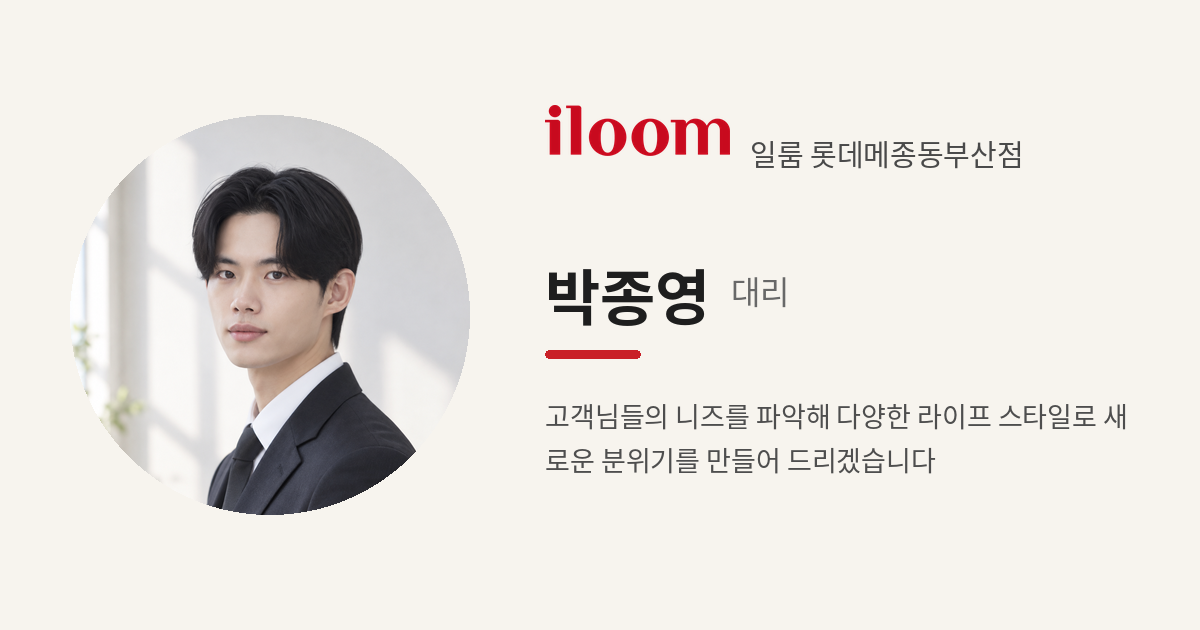
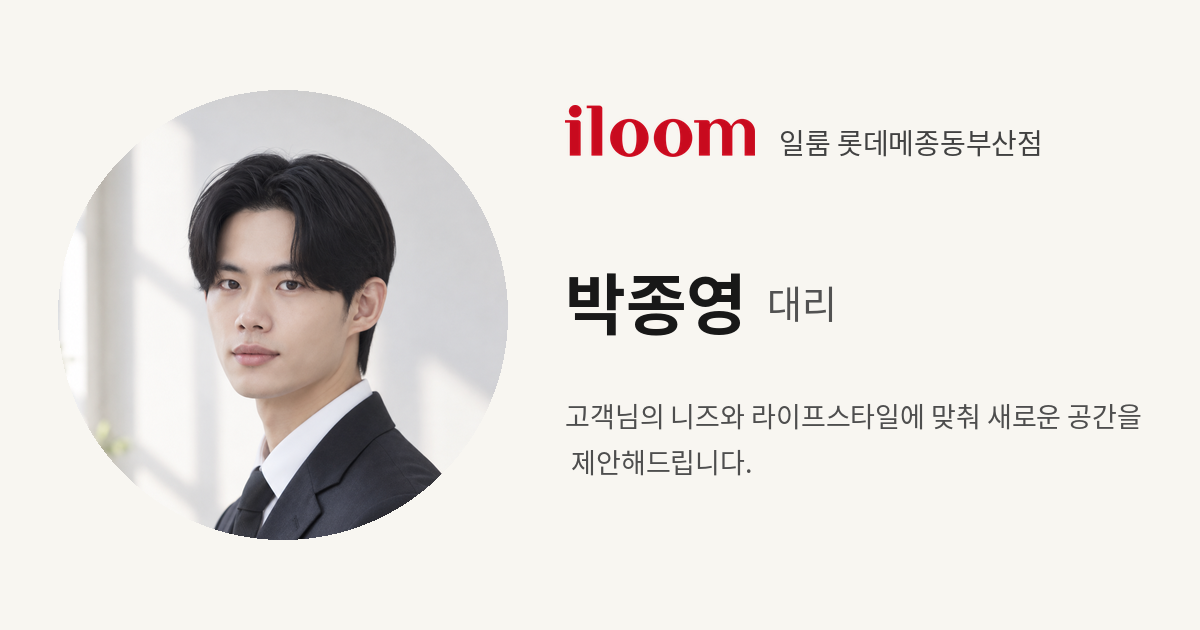
Add files via upload

diff --git a/jongyoung/index.html b/jongyoung/index.html
@@ -3,14 +3,17 @@
 <head>
   <meta charset="UTF-8">
   <meta name="viewport" content="width=device-width, initial-scale=1.0">
+  <meta http-equiv="Cache-Control" content="no-cache, no-store, must-revalidate">
+  <meta http-equiv="Pragma" content="no-cache">
+  <meta http-equiv="Expires" content="0">
   <title>박종영 대리 | 일룸 롯데메종동부산점</title>
-  <meta name="description" content="박종영 대리 | 일룸 롯데메종동부산점">
+  <meta name="description" content="고객님의 니즈와 라이프스타일에 맞춰 새로운 공간을 제안해드립니다.">
 
   <meta property="og:type" content="website">
   <meta property="og:title" content="박종영 대리 | 일룸 롯데메종동부산점">
-  <meta property="og:description" content="고객님들의 니즈를 파악해 다양한 라이프 스타일로 새로운 분위기를 만들어 드리겠습니다">
-  <meta property="og:url" content="https://kcd6201-source.github.io/mobile-card/jongyoung/index.html">
-  <meta property="og:image" content="https://kcd6201-source.github.io/mobile-card/jongyoung/card-preview.png">
+  <meta property="og:description" content="고객님의 니즈와 라이프스타일에 맞춰 새로운 공간을 제안해드립니다.">
+  <meta property="og:url" content="https://kcd6201-source.github.io/mobile-card/jongyoung/index.html?rev=20260918-v4">
+  <meta property="og:image" content="https://kcd6201-source.github.io/mobile-card/jongyoung/card-preview.png?rev=20260918-v4">
   <meta property="og:image:width" content="1200">
   <meta property="og:image:height" content="630">
   <meta property="og:image:type" content="image/png">
@@ -260,7 +263,7 @@
 
   <section class="profile">
     <h1 class="name">박종영 <span class="position">대리</span></h1>
-    <div class="tagline">고객님들의 니즈를 파악해 다양한 라이프 스타일로 새로운 분위기를 만들어 드리겠습니다</div>
+    <div class="tagline">고객님의 니즈와 라이프스타일에 맞춰 새로운 공간을 제안해드립니다.</div>
     <div class="actions">
       <a href="tel:01082962574" class="action">전화</a>
       <a href="sms:01082962574" class="action">문자</a>

diff --git a/kangmin/index.html b/kangmin/index.html
@@ -3,14 +3,17 @@
 <head>
   <meta charset="UTF-8">
   <meta name="viewport" content="width=device-width, initial-scale=1.0">
+  <meta http-equiv="Cache-Control" content="no-cache, no-store, must-revalidate">
+  <meta http-equiv="Pragma" content="no-cache">
+  <meta http-equiv="Expires" content="0">
   <title>손강민 전임 | 일룸 롯데메종동부산점</title>
-  <meta name="description" content="손강민 전임 | 일룸 롯데메종동부산점">
+  <meta name="description" content="우리와 함께 보다 의미있고 다채로운 매일을 만들어보세요">
 
   <meta property="og:type" content="website">
   <meta property="og:title" content="손강민 전임 | 일룸 롯데메종동부산점">
   <meta property="og:description" content="우리와 함께 보다 의미있고 다채로운 매일을 만들어보세요">
-  <meta property="og:url" content="https://kcd6201-source.github.io/mobile-card/kangmin/index.html">
-  <meta property="og:image" content="https://kcd6201-source.github.io/mobile-card/kangmin/card-preview.png">
+  <meta property="og:url" content="https://kcd6201-source.github.io/mobile-card/kangmin/index.html?rev=20260918-v4">
+  <meta property="og:image" content="https://kcd6201-source.github.io/mobile-card/kangmin/card-preview.png?rev=20260918-v4">
   <meta property="og:image:width" content="1200">
   <meta property="og:image:height" content="630">
   <meta property="og:image:type" content="image/png">

diff --git a/junghyun/index.html b/junghyun/index.html
@@ -3,14 +3,17 @@
 <head>
   <meta charset="UTF-8">
   <meta name="viewport" content="width=device-width, initial-scale=1.0">
+  <meta http-equiv="Cache-Control" content="no-cache, no-store, must-revalidate">
+  <meta http-equiv="Pragma" content="no-cache">
+  <meta http-equiv="Expires" content="0">
   <title>김정현 대리 | 일룸 롯데메종동부산점</title>
-  <meta name="description" content="김정현 대리 | 일룸 롯데메종동부산점">
+  <meta name="description" content="공간과 생활에 맞는 가구 배치를 함께 제안합니다.">
 
   <meta property="og:type" content="website">
   <meta property="og:title" content="김정현 대리 | 일룸 롯데메종동부산점">
   <meta property="og:description" content="공간과 생활에 맞는 가구 배치를 함께 제안합니다.">
-  <meta property="og:url" content="https://kcd6201-source.github.io/mobile-card/junghyun/index.html">
-  <meta property="og:image" content="https://kcd6201-source.github.io/mobile-card/junghyun/card-preview.png">
+  <meta property="og:url" content="https://kcd6201-source.github.io/mobile-card/junghyun/index.html?rev=20260918-v4">
+  <meta property="og:image" content="https://kcd6201-source.github.io/mobile-card/junghyun/card-preview.png?rev=20260918-v4">
   <meta property="og:image:width" content="1200">
   <meta property="og:image:height" content="630">
   <meta property="og:image:type" content="image/png">

diff --git a/index.html b/index.html
@@ -20,9 +20,9 @@
   <div class="wrap">
     <h1>모바일 명함 테스트 v2</h1>
     <p>아래 링크를 눌러 각 직원 페이지를 확인할 수 있습니다.</p>
-    <a href="./junghyun/index.html">김정현 대리</a>
-    <a href="./kangmin/index.html">손강민 전임</a>
-    <a href="./jongyoung/index.html">박종영 대리</a>
+    <a href="./junghyun/index.html?rev=20260918-v4">김정현 대리</a>
+    <a href="./kangmin/index.html?rev=20260918-v4">손강민 전임</a>
+    <a href="./jongyoung/index.html?rev=20260918-v4">박종영 대리</a>
   </div>
 </body>
 </html>
